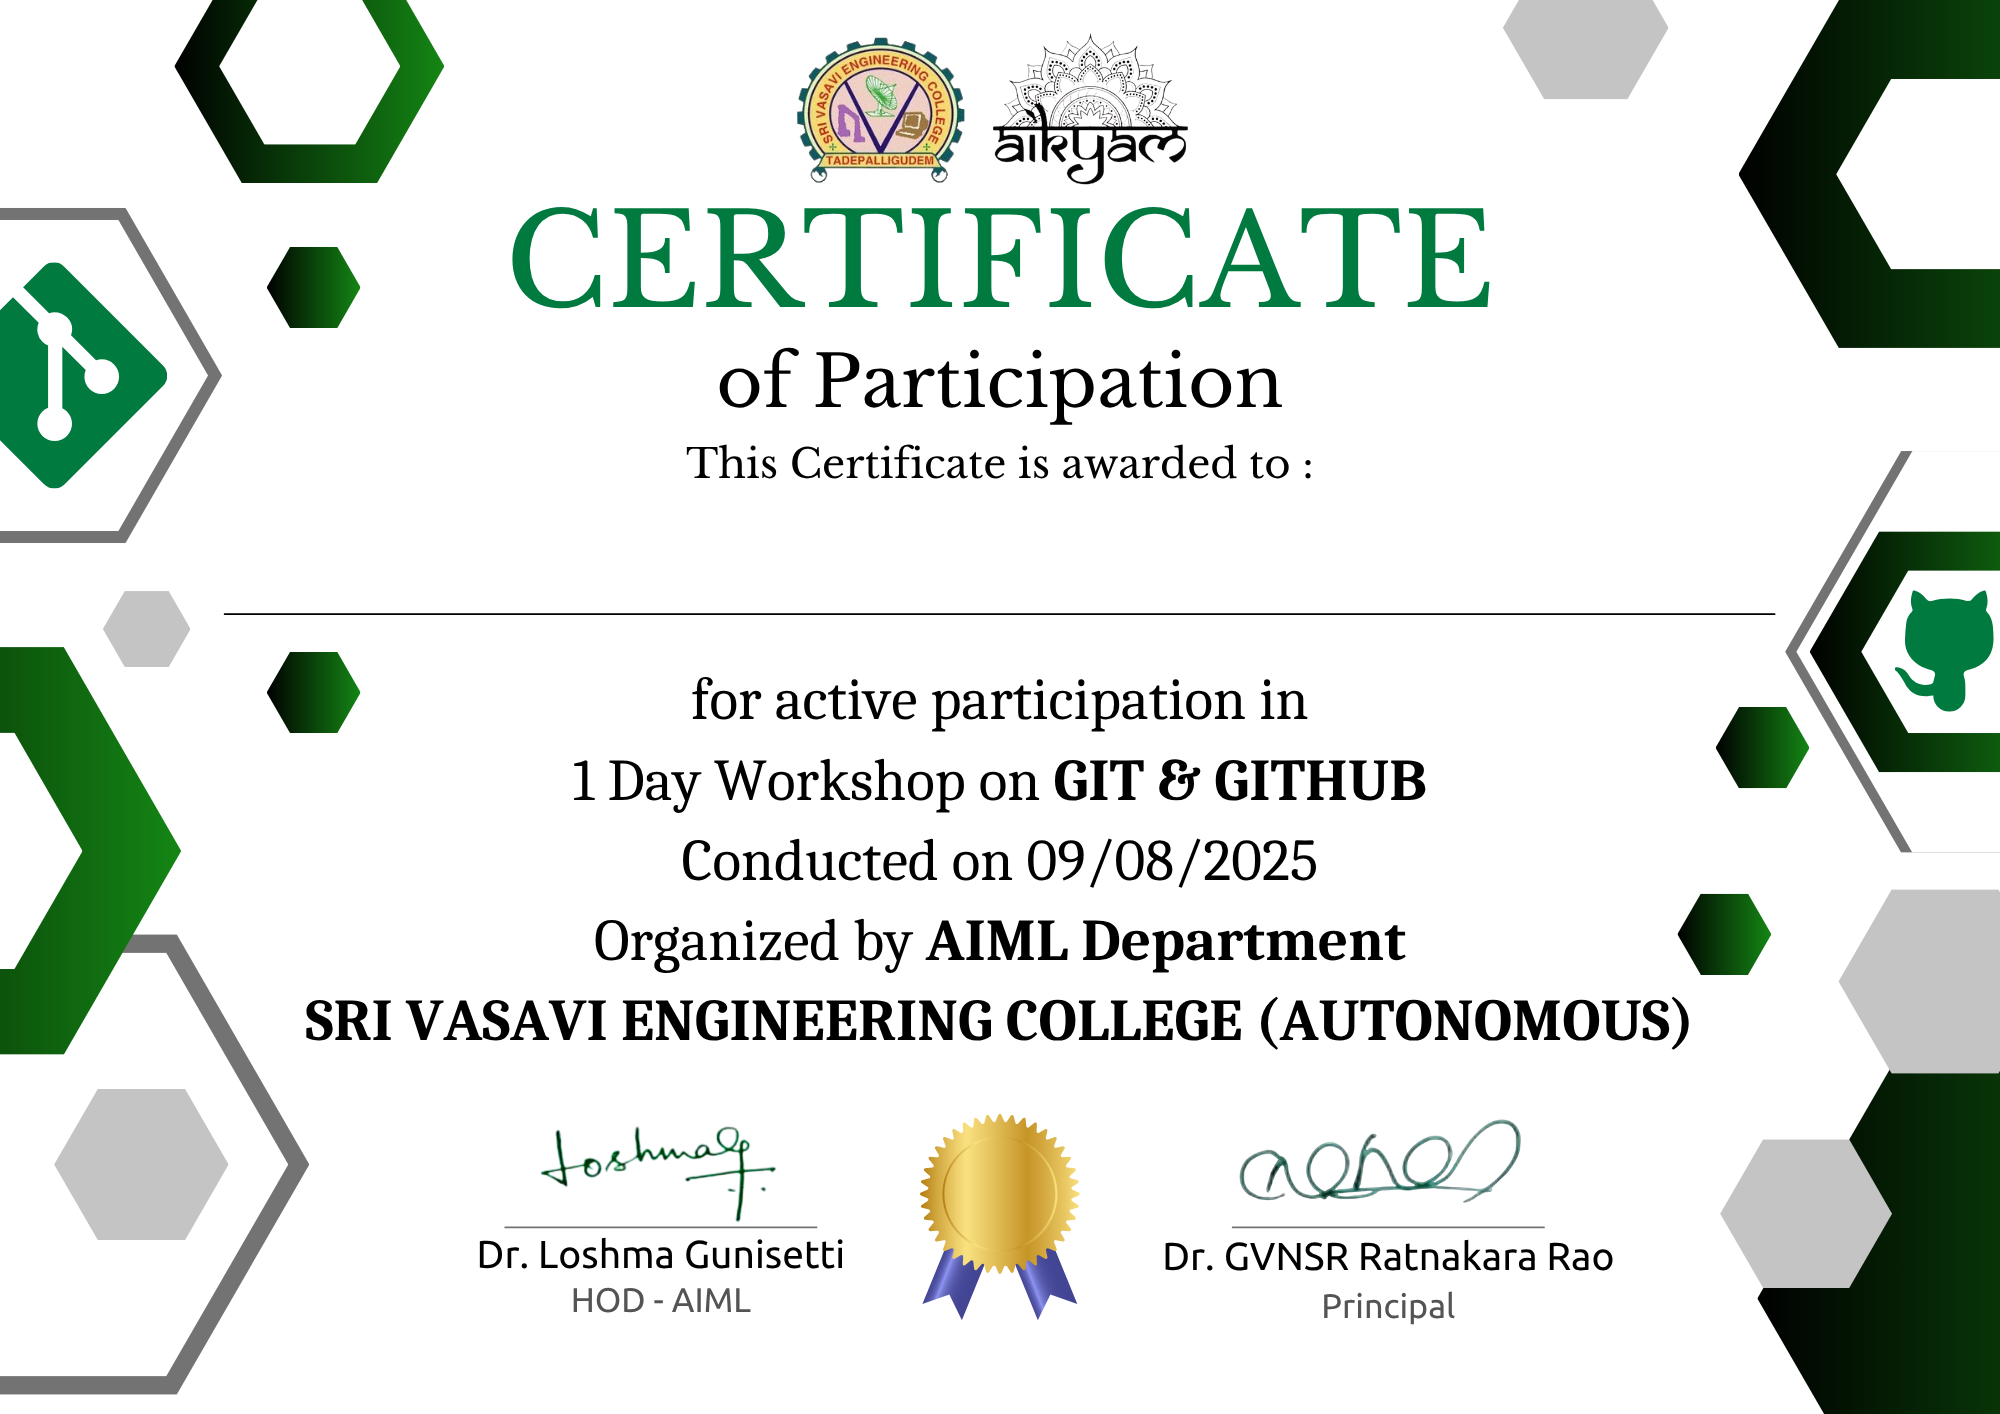
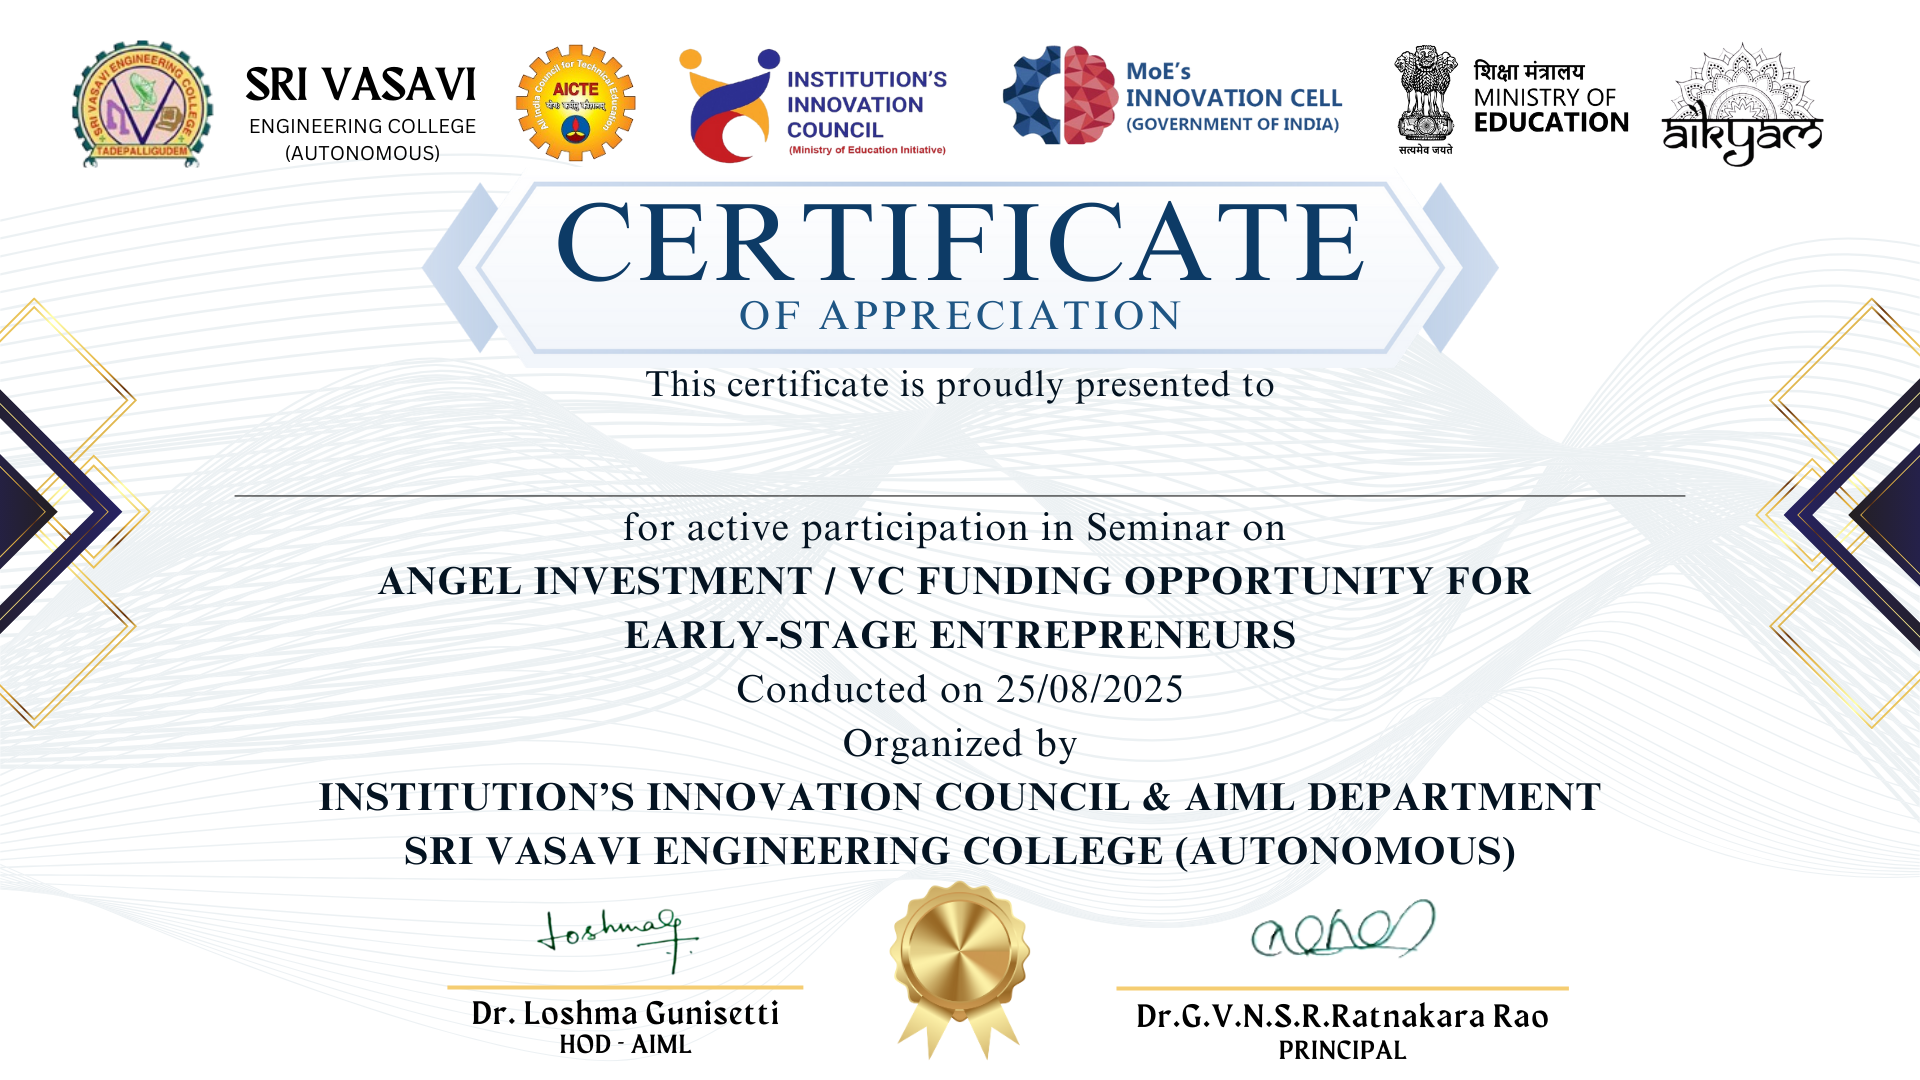
Add files via upload

diff --git a/script.js b/script.js
@@ -5,119 +5,170 @@ document.addEventListener('DOMContentLoaded', () => {
     const downloadLink = document.getElementById('downloadLink');
     const certificateResult = document.getElementById('certificateResult');
     const notRegisteredMessage = document.getElementById('notRegisteredMessage');
+    if (!canvas.getContext) {
+        console.error('Canvas is not supported in this browser');
+        return;
+    }
     const ctx = canvas.getContext('2d');
+    if (!ctx) {
+        console.error('Could not get 2D context');
+        return;
+    }
     
     // --- YOUR STUDENT DATA IN A SINGLE JAVASCRIPT OBJECT ---
+// ...existing code...
+// --- YOUR STUDENT DATA IN A SINGLE JAVASCRIPT OBJECT ---
 const studentsData = {
     "23A81A4303": "KOTA SRI SAI MAHALSA",
-    "23A81A4311": "DEVARAPALLI JNANASRI LAKSHMI PRASANNA DURGA",
-    "23A81A4327": "KODURI GANGA DHAMANESH",
+    "23A81A4309": "CHEKKA ADITHYA VENKATA SAI",
+    "23A81A4312": "DHANISETTI RUPA DURGA",
+    "23A81A4317": "GARIKIPATI MADHU VARSHINI",
+    "23A81A4321": "KADAKATLA MOKSHAGNA SAI TEJA",
+    "23A81A4324": "KARRI VENKATA ABHISHEK REDDY",
+    "23A81A4328": "KOOLI VENKATAESWARA RAO",
+    "23A81A4334": "MUDUNURI CHARAN KRISHNA VARMA",
+    "23A81A4335": "MADHYANAPU LAKSHMI",
     "23A81A4339": "MEDIDI SATHVIK",
-    "23A81A4356": "SATTI SRI MAHI",
+    "23A81A4341": "MOHAMMAD NASAR ZAMA",
+    "23A81A4358": "SHAIK AHMED IRFAN",
+    "23A81A4351": "PINDI BHANU PRAKASH",
     "23A81A4359": "SHAIK DUNNAPOTHULA JAHEER HUSSAIN",
     "23A81A4361": "TALABATTULA JITENDRA SRI",
-    "23A81A4367": "ADAPA NAGA VENKATA DURGAPRASAD",
-    "23A81A4370": "AKULA YESU BABU",
-    "23A81A4373": "ANISETTI JANAKI SAI PRASANNA",
-    "23A81A4376": "BIKKINA NANDINI SRI SAI PURNIMA",
-    "23A81A4377": "BANDARU DEVA LAKSHMI NAGA VARSHINI",
+    "23A81A4363": "VANGALAPUDI SANTOSH KUMAR",
+    "23A81A4383": "CHALLA SATYANARAYANA",
     "23A81A4384": "CHINIMILLI AKHIL SAI PHANIKAR",
+    "23A81A4385": "CHUNDRU JANAKI PRIYA LAKSHMI",
+    "23A81A4391": "GHANTA JHANSI LAKSHMI",
+    "23A81A4393": "GOPISETTI MAHALAKSHMI",
+    "23A81A4394": "GRANDHI SRI SWARNA PRIYA",
+    "23A81A4395": "GUDIMETLA REKHA VINAYA VENI",
     "23A81A4396": "GUDIMETLA TEJA SRI",
     "23A81A4397": "IBBA DEVENDRA SAGAR",
-    "23A81A4399": "KANCHERLA TEJESWAR",
-    "23A81A43A0": "KANNEGOLLA NAGA LAKSHMI RUCHITHA",
+    "23A81A43A2": "KATAM PRANITHA SRI MOHANA",
+    "23A81A43A3": "KATTA ANU SRI",
+    "23A81A43A5": "KOMMIREDDY JAHNAVI VEERAVENI",
     "23A81A43A6": "KOPPINEEDI PRANAY KALI KRISHNA SAI",
     "23A81A43A7": "KORLEPARA N J K AYYAPPA",
-    "23A81A43B1": "MADIREDDI NAGA DURGA BHARGAVI",
     "23A81A43B2": "MAKALA BRAMARAMBA NAGA BHUVANA",
+    "23A81A43B5": "MEKALA NAVYA",
     "23A81A43B7": "MUPPANA SHANMUKHA",
-    "23A81A43B8": "MUTYALA LEELA PRIYANKA",
-    "23A81A43B9": "NARAKULA GAYATRI TRIPURA MADHURI",
     "23A81A43C0": "NAVELE NEEHAR",
-    "23A81A43C6": "REDDY NIKHIL SAI TEJA",
     "23A81A43D2": "YENDLURI KRUPAUL",
-    "23A81A6103": "BANDREDDY NAVYA SREE",
-    "23A81A6109": "CHITTURI SUBRAHMANYA HARSHA VARDHAN",
     "23A81A6110": "CHADALAWADA JAIKIRAN",
-    "23A81A6116": "GANTA JAYASAI VINAYA BHARATH",
-    "23A81A6123": "KOVVURI HARSHA VARDHAN REDDY",
-    "23A81A6125": "KABOTULA TEJAS SAINADH KUMAR",
-    "23A81A6141": "MOHAMMED SHEHAAB HAMEED",
-    "23A81A6151": "PILLA JESSI DORAI RAJ",
-    "23A81A6158": "SHEIK RAMEEZ RAZA",
-    "23A81A6167": "APPASANI JITENDRA NAGA SANDEEP",
-    "23A81A61A3": "MUDDAM BHARATH LAKSHMI NARASIMHA",
-    "23A81A61C3": "SUNKARA GANESH",
-    "23A81A61C6": "THOTA RANJITH KUMAR",
-    "23A81A61C7": "TUPAKULA CHANDRA SEKHARA RAMARAO",
-    "23A81A7129": "Not found in provided lists",
-    "24A81A4302": "ADDANKI JAGADEESH KUMAR",
-    "24A81A4330": "KOLUSU USHA SRI",
-    "24A81A4335": "MULLAPUDI PRADEEP VENKATA SAI",
-    "24A81A4347": "PUVVALASARI REVATHI",
-    "24A81A4348": "REDDI SAI",
-    "24A81A4351": "SOMALANKA SUBRAHMANYA ABHI RAM",
-    "24A81A4352": "SAMMINGI LOKESH SAI SUBRAHMANYAM",
-    "24A81A4353": "SANAMANDRA VINAY BABU",
-    "24A81A4361": "VANKAYALA MOKSHAJNA SRI VAISHNAVI",
-    "24A81A4368": "ALLU HEMA SRIVALLI",
-    "24A81A4371": "BHOGISETTY SRI MAHALAKSHMI",
-    "24A81A4375": "DULAPALLI PAVANI",
-    "24A81A4381": "KADAKATLA PAVANI PADMA",
-    "24A81A4385": "KANNAJI DHANA BHAVANI",
-    "24A81A4386": "KANTETI SRI DURGA MOUNIKA",
-    "24A81A4396": "MADASI PRIYA DHARSINI",
-    "24A81A4397": "MALLADI KUSUMA",
-    "24A81A4398": "MALLESWARAPU BHUVANA SRI VIJAYA",
-    "24A81A4399": "MAMUDURI DEVI SRI CHARAN",
-    "24A81A43A0": "MEDAPATI BHAVYA SRI",
-    "24A81A43A1": "MEDEPALLI SANJAY",
-    "24A81A43A2": "METLA MAHALAKSHMI",
-    "24A81A43B8": "RAVILISETTY GEETANJALI",
-    "24A81A43B9": "RELLI RESHMA",
-    "24A81A43C1": "SHAIK SABEENA",
-    "24A81A43C7": "VANKAYALA JYOTHI",
-    "24A81A43D1": "YEDIDA DEVI UMA MANI ALEKHYA",
-    "24A81A4408": "BATHINA PRASAD",
-    "24A81A4422": "GODAVARI DURGA SRI SAI DINESH YADAV",
-    "24A81A4428": "KALA NAGA SATYA KARTHEEK",
-    "24A81A4441": "NAGIREDDY SRIYA SWATHI NAGA SAILAJA",
-    "24A81A4446": "PATSA PADMA PRIYA",
-    "24A81A4453": "SANKU LAKSHMI ANJANA",
-    "24A81A4465": "VENKATA SIDHI PATI",
-    "24A81A6122": "GOPISETTI SAI SRI AMRUTA",
-    "24A81A6126": "KOYYALA ROHITH VINAY VARMA",
-    "24A81A6138": "LINGAPARTHI RUCHITHA SRI",
-    "24A81A6144": "NARINA SAI HARSHINI",
-    "24A81A6167": "ADABALA VEERA VENKATA GREESHMA SREE",
-    "24A81A6170": "ALLAM VENKATA SAI RAM KUMAR",
-    "24A81A6178": "BYRRAJU GOPI CHANDANA",
-    "24A81A6187": "DUDDUPUDI DURGA GANESH",
-    "24A81A61A5": "MOHAMMAD AYESHA",
-    "24A81A61B9": "PRADEEP PULI",
-    "24A81A61C0": "RAJAHMUNDRY SRAVANI",
-    "24A81A61C1": "RAMISETTI ANANTHA NAGA SAI RAM",
-    "24A81A61C7": "TIRANDI NIKHIL SRI KRISHNA",
-    "24A85A4309": "GOLLAKOTI NIKHIL",
-    "24A85A6108": "SAYYED RAHIMUDDIN",
-    "24A85A6109": "CHELLINKALA KARUNAKAR",
-    "24A85A6111": "KURELLA JASWANTH NAGA VENKATA GANGADHAR",
-    "25A85A4307": "RAVIPATI CHAITANYA RAMAKRISHNA",
-    "25A85A4407": "VENDANTAM SRI PRAHARSHITA",
-    "23A81A6114": "EMANDI JAGADEESH",
-    "23A81A4392": "GOPI VIGNESH",
-    "23A81A4393": "GOPISETTI MAHALAKSHMI",
-    "23A81A43C4": "PATTULA JASHUVA",
-    "24A81A6197": "KURICHETI YAMINI",
+    "23A81A6112": "DOKKA CHINNARI",
+    "23A81A6115": "GADAMSETTI HARINI",
+    "23A81A6121": "GUTTULA SRI LAKSHMI",
+    "23A81A6133": "KOTHA KARTHIKEYA RAMALINGESWARA GUPTA",
+    "23A81A6149": "PALLAPOTHU VENKATA RAGHAVA AVINASH",
+    "23A81A6150": "PASALAPUDI CHANDINI",
+    "23A81A6152": "POTLA CHITTI BABU",
+    "23A81A6156": "SATTI SAI RAMA KRISHNA REDDY",
     "23A81A6160": "TANINKI DURGA NAGA SURYA MOHITH",
-    "25A85A4310": "KOTTAPALLI HARI SATYANARAYANA",
-  };
-    // -------------------------------------------------------------
+    "23A81A6163": "VARANASI A L V N S AMRUTHA",
+    "23A81A6167": "APPASANI JITENDRA NAGA SANDEEP",
+    "23A81A6168": "ADABALA RAMYA",
+    "23A81A6171": "BHARANIKAPULA MURALEE KRISHNA",
+    "23A81A6175": "BUDAMURI BHANU MADHAVI RAJESWARI",
+    "23A81A6177": "CHERUKU KAVYA",
+    "23A81A6183": "DASARI AMULYA",
+    "23A81A6185": "DIDLA CHANDRA LOKESH",
+    "23A81A6186": "GANDROTHU GANGA SAI NAGA MUNNIJA",
+    "23A81A6187": "GANNENA HANSIKA",
+    "23A81A6188": "GEDDAM BHARGAV TRIVEN",
+    "23A81A6195": "KANCHARLA HARSHITA",
+    "23A81A6196": "KARRI TANUJA REDDY",
+    "23A81A61A5": "MEDIDI CHAKRI",
+    "23A81A61A8": "NAMBADA TARUN SRI RAM",
+    "23A81A61A9": "PAMARTHI TARUN SAI MANIKANTA",
+    "23A81A61B3": "PILLA LAKSHMI PRASANNA",
+    "23A81A61B5": "PRAGALLAPATI NAGA RATNA SAI NIKHITHA",
+    "23A81A61B6": "RAVAADA NAGA GOWTAMI",
+    "23A81A61B8": "RUTTALA SUBHASRI",
+    "23A81A61C1": "SHAIK FAYAZ AHMED",
+    "23A81A61C3": "SUNKARA GANESH",
+    "23A81A61D1": "VINNA VEDA PRIYA SANJANA",
+    "24A81A6163": "VELAGALA NAGA SATYA SRI CHANDANA REDDY",
+    "24A81A4301": "ACHANTA HARSHINI",
+    "24A81A4303": "ADURI TEJASWINI",
+    "24A81A4306": "BOGIREDDY SAI KUMAR",
+    "24A81A4309": "CHINIMILLI DEVI SRI CHARAN",
+    "24A81A4311": "DASARI AJAY KUMAR",
+    "24A81A4314": "GADI PAVANI LAKSHMI",
+    "24A81A4315": "GADIGATLA AASHRITHA",
+    "24A81A4330": "KOLUSU USHA SRI",
+    "24A81A4334": "KUDUPUDI HASINI",
+    "24A81A4339": "NEKKANTI BHUVANA SAI DEEPTHI",
+    "24A81A4340": "NELAPOLU SARAYU",
+    "24A81A4345": "PERUMALLA JYOTHSNA",
+    "24A81A4346": "PULLA S R S PHANI NARAYANA",
+    "24A81A4349": "SUNDARAPALLI CHARAN PRABHU",
+    "24A81A4351": "SOMALANKA SUBRAHMANYA ABHI RAM",
+    "24A81A4353": "SANAMANDRA VINAY BABU",
+    "24A81A4354": "SATTI ANNAPURNA",
+    "24A81A4358": "UPPULURI NAGA SAI SRI NAVYAGNA",
+    "24A81A4361": "VANKAYALA MOKSHAJNA SRI VAISHNAVI",
+    "24A81A4364": "YARLAPATI VENKATA NAGA DURGA TARUN",
+    "24A81A4368": "ALLU HEMA SRIVALLI",
+    "24A81A4370": "BANDI ROHITH",
+    "24A81A4371": "BHOGISETTY SRI MAHALAKSHMI",
+    "24A81A4380": "JAGU UDAY NAGA RAMA KRISHNA",
+    "24A81A4389": "KOPALLI BABY VENKATA SAI DHANA SREE",
+    "24A81A4397": "MALLADI KUSUMA",
+    "24A81A43A0": "MEDAPATI BHAVYA SRI",
+    "24A81A43A4": "MOTUPALLI BALA NAGA PADMA KOMALI",
+    "24A81A43A6": "NAKKA DURGA RAMESH",
+    "24A81A43B2": "PAMULA SATISH",
+    "24A81A43C8": "VANKAYALA MANI RATNA MAHIMA",
+    "24A81A43D0": "YADLAPALLI SRIHARSHA",
+    "24A81A4407": "BANDARU RENUKA SAI",
+    "24A81A4412": "BOTTA NAVEEN KUMAR",
+    "24A81A4424": "GUTHULA VASU TEJA",
+    "24A81A4432": "KOLLI ABHISHIKTH",
+    "24A81A4460": "TATAVARTHI NISANTH",
+    "24A81A4465": "VENKATA SIDHI PATI",
+    "24A81A6104": "BACCHU MOHAN CHARAN TEJA",
+    "24A81A6108": "BATTINA SAI TEJASRI",
+    "24A81A6110": "CHAKKA MOHANA SRILAKSHMI ALEKHYA",
+    "24A81A6132": "KARRI PURNIMA",
+    "24A81A6152": "RAVURI DIVYA ANU LAKSHMI SRI",
+    "24A81A6157": "SRIDHARA NAGA VENKATA SATYA SAI SARANYA",
+    "24A81A6159": "TETALI SESHA SAI PAVAN KUMAR REDDY",
+    "24A81A6162": "VATTI LAKSHMI MADHURI",
+    "24A81A6167": "ADABALA VEERA VENKATA GREESHMA SREE",
+    "24A81A6169": "ADURI ANITHA",
+    "24A81A6179": "CHADALAVADA LIKITH KUMAR",
+    "24A81A6194": "JAGADALA LIKITHA",
+    "24A81A61A3": "MEDIDI HARSHITHA",
+    "24A81A61A4": "MIDDE JAI SURYA",
+    "24A81A61A5": "MOHAMMAD AYESHA",
+    "24A81A61A6": "MOHAMMAD SAYYAD BAJI",
+    "24A81A61A9": "NADIPALLI SRIMANTH KUMAR",
+    "24A81A61B4": "PANTHAKANI CHAITANYA SWARUP",
+    "24A81A61C0": "RAJAHMUNDRY SRAVANI",
+    "24A85A4302": "KOTHAPALLI HARI VENKATA SAI MANI KUMAR",
+    "24A85A6107": "SARVASUDHI PRAVEEN SRINIVAS",
+    "24A85A6111": "KURELLA JASWANTH NAGA VENKATA GANGADHAR",
+    "24A85A6112": "CHERUKU MANOHAR",
+    "25A85A4307": "RAVIPATI CHAITANYA RAMAKRISHNA",
+    "25A85A4310": "KOTTAPALLI HARI SATYANARAYANA"
+};
+// -------------------------------------------------------------
+// ...existing code...
+// -------------------------------------------------------------
 
     const certificateTemplate = new Image();
-    certificateTemplate.src = 'Blue Gold Elegant Certificate of Participation.png'; 
+    certificateTemplate.onerror = () => {
+        console.error('Error loading certificate template image');
+        alert('Error: Could not load the certificate template. Please try again later.');
+    };
+    certificateTemplate.src = 'Blue Gold Elegant Certificate of Participation.png';
 
     certificateTemplate.onload = () => {
+        // Ensure image loaded correctly
+        if (certificateTemplate.width === 0 || certificateTemplate.height === 0) {
+            console.error('Failed to load certificate template image');
+            return;
+        }
         canvas.width = certificateTemplate.width;
         canvas.height = certificateTemplate.height;
 
@@ -135,19 +186,19 @@ const studentsData = {
                 ctx.clearRect(0, 0, canvas.width, canvas.height);
                 ctx.drawImage(certificateTemplate, 0, 0);
 
-                ctx.font = '60px Arial'; 
+                ctx.font = '50px Baskerville'; 
                 ctx.fillStyle = '#000'; 
                 ctx.textAlign = 'center';
                 
                 const textX = canvas.width / 2;
                 // DROPPING THE NAME BY 7 PIXELS
-                const textY = canvas.height * 0.45 - 45;
+                const textY = canvas.height * 0.45 - 7;
 
                 ctx.fillText(name, textX, textY);
 
                 const dataURL = canvas.toDataURL('image/png');
                 downloadLink.href = dataURL;
-                downloadLink.download = `Python_GitHub_Certificate_${name}.png`;
+                downloadLink.download = `Angel_One_Investment_Seminar_${name}.png`;
                 downloadLink.style.display = 'inline-block';
                 certificateResult.style.display = 'block';
 

diff --git a/index.html b/index.html
@@ -86,7 +86,7 @@
                         <a id="downloadLink" class="btn btn-success mt-3" style="display: none;">Click to Download</a>
                     </div>
                     
-                    <div id="notRegisteredMessage" class="text-center alert alert-danger" style="display: none;">
+                    <div id="notRegisteredMessage" class="btn btn-primary" style="display: none;">
                         You are not registered for the Angel Investment/VC Funding seminar. Please check your registration details and try again.
                     </div>
 
